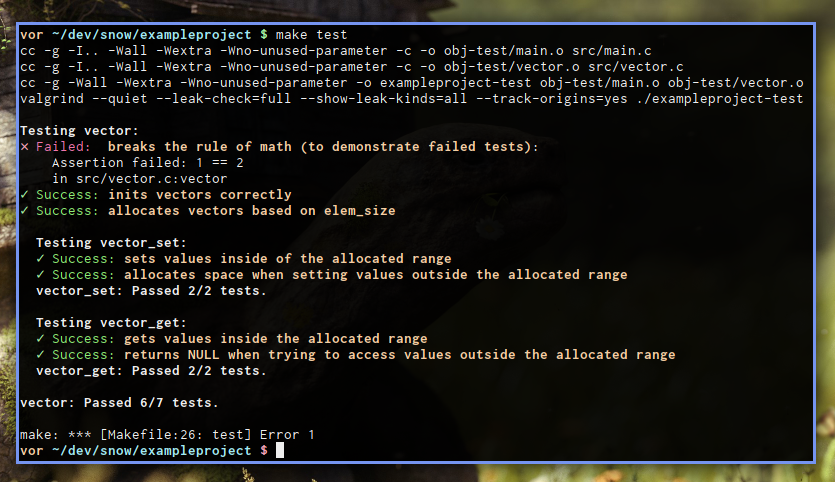
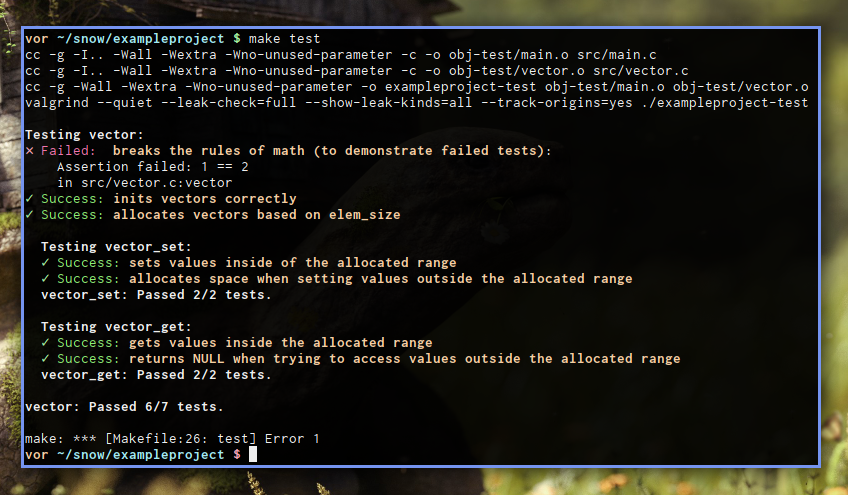
minor text fixes

Changed region(s): [[0.0, 0.0, 1.0, 1.0]]

diff --git a/exampleproject/src/vector.c b/exampleproject/src/vector.c
@@ -54,7 +54,7 @@ void *vector_get(vector *vec, size_t idx)
 	defer(vector_free(&name))
 
 describe(vector, {
-	it("breaks the rule of math (to demonstrate failed tests)", {
+	it("breaks the rules of math (to demonstrate failed tests)", {
 		assert(1 == 2);
 	});
 
